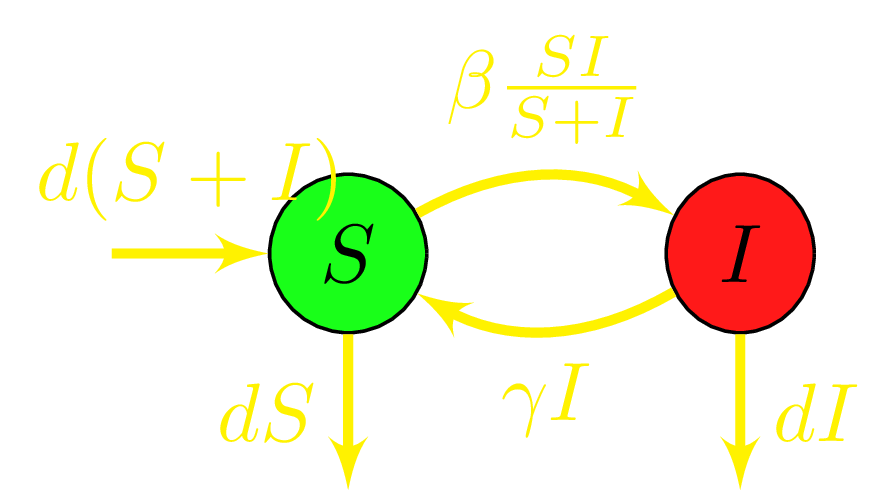
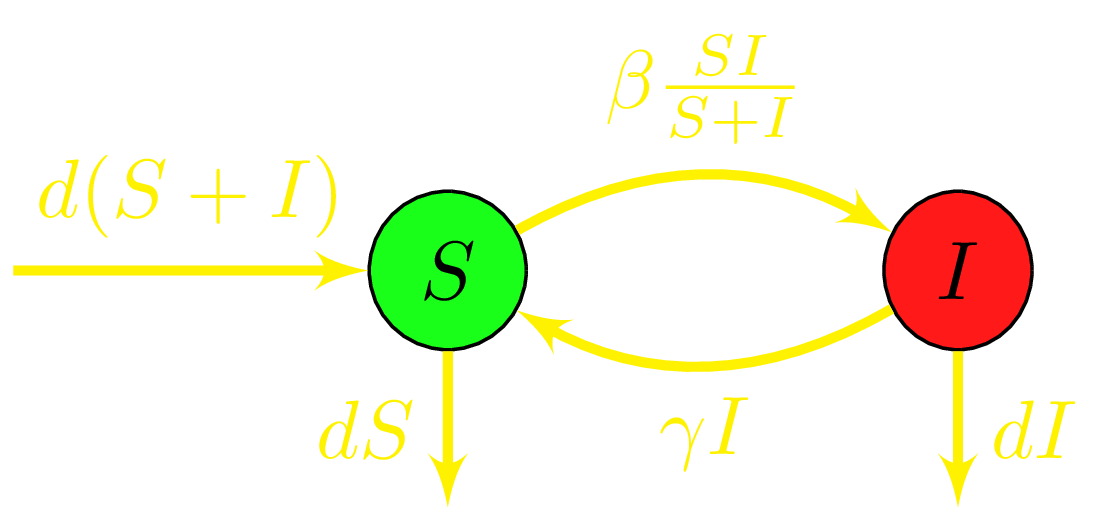
update figures

Changed region(s): [[0.0, 0.0596, 0.9654, 0.9543]]

diff --git a/FIGS/SIS_base_prop_incidence_birthdN_blackBG.tex b/FIGS/SIS_base_prop_incidence_birthdN_blackBG.tex
@@ -18,8 +18,8 @@ minimum height=2em]
 	cloud/.style={minimum width={width("N-1")+2pt},
 		draw, ellipse,fill=red!20}]
 	\node [cloud, fill=green!90] (S) {$S$};
-	\node [cloud, right=of S, fill=red!90] (I) {$I$};
-	\coordinate[left of=S] (h1);
+	\node [cloud, right=1.5cm of S, fill=red!90] (I) {$I$};
+	\coordinate[left=1.5cm of S] (h1);
 	\coordinate[below of=S] (h2);
 	\coordinate[below of=I] (h3);
 	%% Flows
